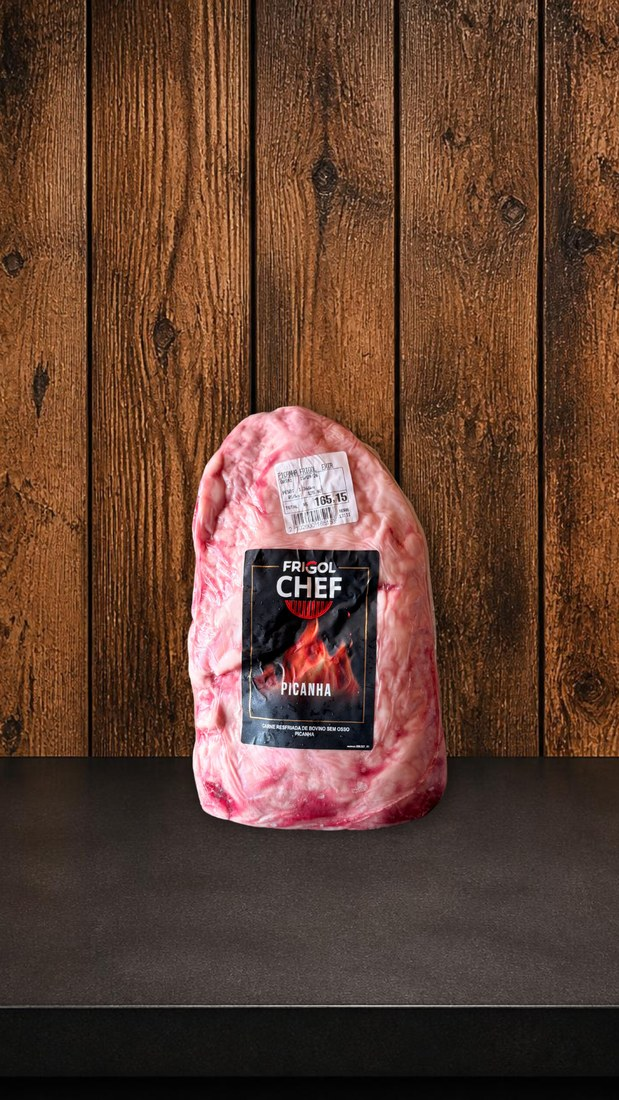
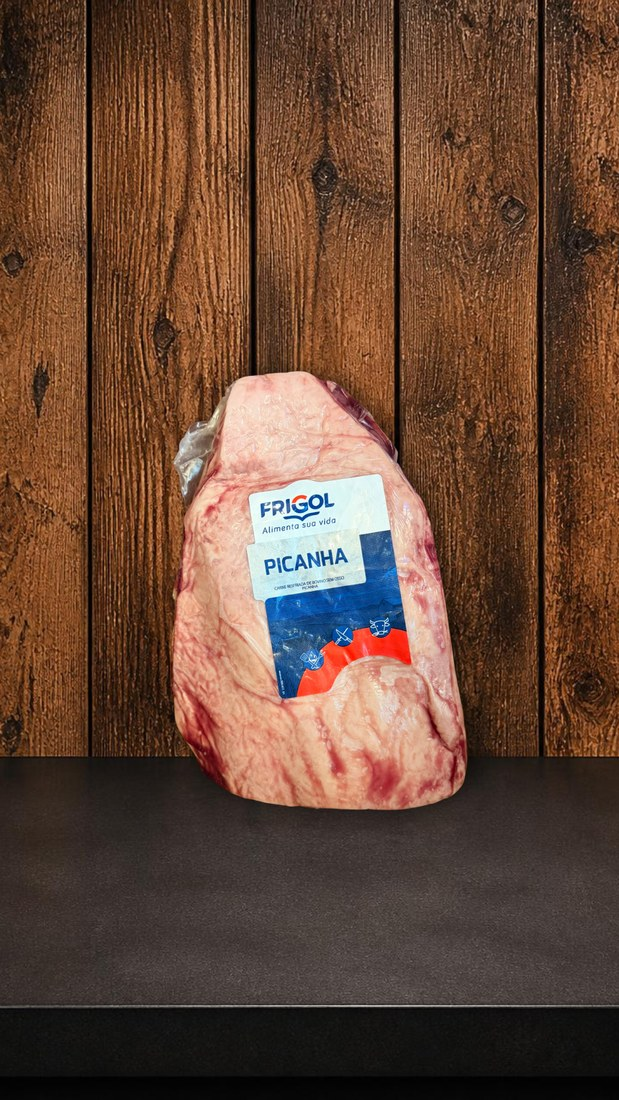
atualização de produtos

Changed region(s): [[0.2763, 0.3091, 0.7674, 0.7727]]

diff --git a/index.html b/index.html
@@ -341,14 +341,37 @@
         </div>
         <div class="cards-grid" data-category="picanhas">
 
-          <div class="product-card" data-key="picanhas:frigol">
+          <div class="product-card" data-key="picanhas:selecao-contato">
             <div class="product-media">
-              <img class="product-photo" src="images/products/picanhas/frigol.jpg"
-               alt="Frigol" loading="lazy">
+              <img class="product-photo" src="images/products/picanhas/selecao-contato.jpg"
+               alt="Seleção Contato" loading="lazy">
                <span class="product-tag">Promoção</span>
             </div>
             <div class="product-body">
-              <h4 class="product-name">Frigol</h4>
+              <h4 class="product-name">Seleção Contato</h4>
+              <p class="product-meta">Nacional · Resfriada</p>
+              <div class="product-footer">
+                <span class="product-price"><small>R$</small>99,90<em>/kg</em></span>
+                <button type="button" class="product-cta add-cart-btn" aria-label="Adicionar ao carrinho">
+                  <svg viewBox="0 0 24 24" width="18" height="18" fill="none" stroke="currentColor" stroke-width="2"
+                    stroke-linecap="round" stroke-linejoin="round" aria-hidden="true">
+                    <circle cx="9" cy="20" r="1.4" fill="currentColor" stroke="none" />
+                    <circle cx="18" cy="20" r="1.4" fill="currentColor" stroke="none" />
+                    <path d="M2.5 3h2.4l2.4 12.2a2 2 0 0 0 2 1.6h8.4a2 2 0 0 0 2-1.6L21 8H6" />
+                  </svg>
+                </button>
+              </div>
+            </div>
+          </div>
+
+          <div class="product-card" data-key="picanhas:frigol-chef">
+            <div class="product-media">
+              <img class="product-photo" src="images/products/picanhas/frigol-chef.jpg"
+               alt="Frigol Chef" loading="lazy">
+               <span class="product-tag">Promoção</span>
+            </div>
+            <div class="product-body">
+              <h4 class="product-name">Frigol Chef</h4>
               <p class="product-meta">Nacional · Resfriada</p>
               <div class="product-footer">
                 <span class="product-price"><small>R$</small>89,90<em>/kg</em></span>
@@ -445,6 +468,29 @@
               <p class="product-meta">Nacional · Resfriada</p>
               <div class="product-footer">
                 <span class="product-price"><small>R$</small>144,90<em>/kg</em></span>
+                <button type="button" class="product-cta add-cart-btn" aria-label="Adicionar ao carrinho">
+                  <svg viewBox="0 0 24 24" width="18" height="18" fill="none" stroke="currentColor" stroke-width="2"
+                    stroke-linecap="round" stroke-linejoin="round" aria-hidden="true">
+                    <circle cx="9" cy="20" r="1.4" fill="currentColor" stroke="none" />
+                    <circle cx="18" cy="20" r="1.4" fill="currentColor" stroke="none" />
+                    <path d="M2.5 3h2.4l2.4 12.2a2 2 0 0 0 2 1.6h8.4a2 2 0 0 0 2-1.6L21 8H6" />
+                  </svg>
+                </button>
+              </div>
+            </div>
+          </div>
+
+          <div class="product-card" data-key="picanhas:frigol">
+            <div class="product-media">
+              <img class="product-photo" src="images/products/picanhas/frigol.jpg"
+               alt="Frigol" loading="lazy">
+               <span class="product-tag">Promoção</span>
+            </div>
+            <div class="product-body">
+              <h4 class="product-name">Frigol</h4>
+              <p class="product-meta">Nacional · Resfriada</p>
+              <div class="product-footer">
+                <span class="product-price"><small>R$</small>89,90<em>/kg</em></span>
                 <button type="button" class="product-cta add-cart-btn" aria-label="Adicionar ao carrinho">
                   <svg viewBox="0 0 24 24" width="18" height="18" fill="none" stroke="currentColor" stroke-width="2"
                     stroke-linecap="round" stroke-linejoin="round" aria-hidden="true">
@@ -687,9 +733,9 @@
             </div>
           </div>
 
-          <div class="product-card" data-key="picanhas:selecao-contato">
+          <div class="product-card" data-key="picanhas:selecao-contato-bdj">
             <div class="product-media">
-              <img class="product-photo" src="images/products/picanhas/selecao-contato.jpg"
+              <img class="product-photo" src="images/products/picanhas/selecao-contato-bdj.jpg"
                alt="Seleção Contato 500g" loading="lazy">
                <span class="product-tag">Promoção</span>
             </div>
@@ -1029,9 +1075,31 @@
             </div>
           </div>
 
-          <div class="product-card" data-key="bovinos:chorizo-steak-bdj">
+          <div class="product-card" data-key="bovinos:chorizo-steak-1kg">
             <div class="product-media">
-              <img class="product-photo" src="images/products/bovinos/chorizo-steak-bdj.jpg"
+              <img class="product-photo" src="images/products/bovinos/chorizo-steak-1kg.jpg"
+               alt="Chorizo Steak bdj 1kg" loading="lazy">
+               <span class="product-tag">Promoção</span>
+            </div>
+            <div class="product-body">
+              <h4 class="product-name">Chorizo Steak - BDJ 1kg</h4>
+              <div class="product-footer">
+                <span class="product-price"><small>R$</small>79,90</span>
+                <button type="button" class="product-cta add-cart-btn" aria-label="Adicionar ao carrinho">
+                  <svg viewBox="0 0 24 24" width="18" height="18" fill="none" stroke="currentColor" stroke-width="2"
+                    stroke-linecap="round" stroke-linejoin="round" aria-hidden="true">
+                    <circle cx="9" cy="20" r="1.4" fill="currentColor" stroke="none" />
+                    <circle cx="18" cy="20" r="1.4" fill="currentColor" stroke="none" />
+                    <path d="M2.5 3h2.4l2.4 12.2a2 2 0 0 0 2 1.6h8.4a2 2 0 0 0 2-1.6L21 8H6" />
+                  </svg>
+                </button>
+              </div>
+            </div>
+          </div>
+ 
+          <div class="product-card" data-key="bovinos:chorizo-steak-500g">
+            <div class="product-media">
+              <img class="product-photo" src="images/products/bovinos/chorizo-steak-500g.jpg"
                alt="Chorizo Steak bdj 500g" loading="lazy">
                <span class="product-tag">Promoção</span>
             </div>
@@ -2234,7 +2302,7 @@
             <div class="kit-card-media"><img data-kit-slug="kit-contatinhos"
               alt="Kit Contatinhos" loading="lazy"><span
                 class="product-flame" aria-hidden="true">🔥</span></div>
-            <span class="kit-people">5 pessoas</span>
+            <span class="kit-people">4 pessoas</span>
             <h4>KIT CONTATINHOS</h4>
             <span class="kit-price"><small>R$</small>149,90</span>
             <ul>

diff --git a/js/products-data.js b/js/products-data.js
@@ -19,22 +19,24 @@
 const PRODUCTS = {
 
   picanhas: [
-    { slug: "frigol",             name: "PICANHA FRIGOL",                       origin: "Nacional",   storage: "Resfriada", price: "89,90",  unit: "kg",   soldOut: true },
-    { slug: "pul",                name: "PICANHA PUL",                          origin: "Nacional",   storage: "Resfriada", price: "112,90", oldPrice: "122,90", unit: "kg", tag: "Promoção" },
+    { slug: "selecao-contato",    name: "PICANHA SELEÇÃO CONTATO",              origin: "Nacional",   storage: "Resfriada", price: "99,90",  unit: "kg" },
+    { slug: "frigol-chef",        name: "PICANHA FRIGOL CHEF",                  origin: "Nacional",   storage: "Resfriada", price: "89,90",  unit: "kg",   soldOut: true },
+    { slug: "pul",                name: "PICANHA PUL",                          origin: "Nacional",   storage: "Resfriada", price: "112,90", unit: "kg",   soldOut: true },
     { slug: "chef",               name: "PICANHA CHEF",                         origin: "Nacional",   storage: "Resfriada", price: "115,90", unit: "kg" },
     { slug: "estancia-92",        name: "PICANHA ESTÂNCIA 92",                  origin: "Nacional",   storage: "Resfriada", price: "144,90", unit: "kg" },
     { slug: "bassi",              name: "PICANHA BASSI",                        origin: "Nacional",   storage: "Resfriada", price: "144,90", unit: "kg",   soldOut: true },
+    { slug: "frigol",             name: "PICANHA FRIGOL",                       origin: "Nacional",   storage: "Resfriada", price: "109,90", unit: "kg" },
     { slug: "brasa",              name: "PICANHA BRASA",                        origin: "Nacional",   storage: "Resfriada", price: "119,90", unit: "kg" },
     { slug: "dimeza",             name: "PICANHA DIMEZA",                       origin: "Nacional",   storage: "Resfriada", price: "117,90", unit: "kg",   soldOut: true },
     { slug: "fire",               name: "PICANHA FIRE",                         origin: "Nacional",   storage: "Resfriada", price: "122,90", unit: "kg" },
     { slug: "baby-novilho",       name: "PICANHA BABY NOVILHO",                 origin: "Nacional",   storage: "Resfriada", price: "119,90", unit: "kg",   soldOut: true },
     { slug: "diprima",            name: "PICANHA DIPRIMA",                      origin: "Nacional",   storage: "Resfriada", price: "119,90", unit: "kg",   soldOut: true },
-    { slug: "guarani",            name: "PICANHA GUARANI",                      origin: "Paraguaia",  storage: "Resfriada", price: "127,90", unit: "kg",   soldOut: true },
+    { slug: "guarani",            name: "PICANHA GUARANI",                      origin: "Paraguaia",  storage: "Resfriada", price: "124,90", unit: "kg",   soldOut: true },
     { slug: "cabana-las-lilas",   name: "PICANHA CABAÑA LAS LILAS",             origin: "Uruguaia",   storage: "Congelada", price: "132,90", unit: "kg",   soldOut: true },
     { slug: "tacuarembo",         name: "PICANHA TACUAREMBÓ",                   origin: "Uruguaia",   storage: "Congelada", price: "129,90", unit: "kg" },
     { slug: "los lazos",          name: "PICANHA LOS LAZOS",                    origin: "Uruguaia",   storage: "Congelada", price: "132,90", unit: "kg" },
     { slug: "cocarsa",            name: "PICANHA COCARSA",                      origin: "Argentina",  storage: "Congelada", price: "137,90", unit: "kg" },
-    { slug: "selecao-contato",    name: "PICANHA SELEÇÃO CONTATO - 500g",       origin: "Nacional",   storage: "Congelada", price: "69,90",  unit: "un" },
+    { slug: "selecao-contato-bdj",name: "PICANHA SELEÇÃO CONTATO - 500g",       origin: "Nacional",   storage: "Congelada", price: "69,90",  unit: "un" },
   ],
 
   bovinos: [
@@ -48,11 +50,12 @@ const PRODUCTS = {
     { slug: "capa-file-bassi",        name: "CAPA DE FILÉ BASSI",                       price: "45,90", unit: "kg",   soldOut: true },
     { slug: "stick-de-costela",       name: "STICK DE COSTELA",                         price: "59,90", unit: "kg" },
     { slug: "maca-de-peito-angus",    name: "BRISKET ANGUS - MAÇÃ DE PEITO",            price: "64,90", unit: "kg" },
-    { slug: "rib-steak-grill",        name: "RIB STEAK GRILL",                          price: "69,90", unit: "kg" },
+    { slug: "rib-steak-grill",        name: "RIB STEAK GRILL",                          price: "69,90", unit: "kg",   soldOut: true },
     { slug: "maminha-angus",          name: "MAMINHA ANGUS",                            price: "99,90", unit: "kg",   soldOut: true },
     { slug: "alcatra-com-queijo",     name: "ALCATRA C/ QUEIJO",                        price: "64,90", unit: "kg" },
     { slug: "baby-beef-angus",        name: "BABY BEEF ANGUS",                          price: "89,90", unit: "kg",   soldOut: true },
-    { slug: "chorizo-steak-bdj",      name: "CHORIZO STEAK CONTATO - 500g",             price: "39,90", unit: "un" },
+    { slug: "chorizo-steak-1kg",      name: "CHORIZO STEAK CONTATO - 1KG",              price: "79,90", unit: "un" },
+    { slug: "chorizo-steak-500g",     name: "CHORIZO STEAK CONTATO - 500g",             price: "39,90", unit: "un" },
     { slug: "costela-premium",        name: "COSTELA BOVINA C/ QUEIJO - 450g",          price: "74,90" },
     { slug: "linguica-costela-angus", name: "LINGUIÇA DE COSTELA ANGUS - 300g",         price: "16,90" },
     { slug: "linguica-costela-queijo",name: "LINGUIÇA DE COSTELA C/ QUEIJO - 420g",     price: "25,90",   soldOut: true },

diff --git a/js/script.js b/js/script.js
@@ -163,13 +163,29 @@ function organizeSoldOutProducts() {
   document.querySelectorAll(".cards-grid[data-category]").forEach((grid) => {
     const cards = Array.from(grid.querySelectorAll(".product-card"));
 
-    const available = cards.filter(card => !card.classList.contains("is-sold-out"));
+    const promo = cards.filter(card => card.classList.contains("is-promo"));
     const soldOut = cards.filter(card => card.classList.contains("is-sold-out"));
+    const available = cards.filter(card =>
+      !card.classList.contains("is-promo") && !card.classList.contains("is-sold-out")
+    );
 
-    [...available, ...soldOut].forEach(card => {
+    // só nas picanhas: do mais barato para o mais caro dentro de cada grupo
+    if (grid.dataset.category === "picanhas") {
+      const byPrice = (a, b) => cardPrice(a) - cardPrice(b);
+      promo.sort(byPrice);
+      available.sort(byPrice);
+      soldOut.sort(byPrice);
+    }
+
+    [...promo, ...available, ...soldOut].forEach(card => {
       grid.appendChild(card);
     });
   });
+
+  function cardPrice(card) {
+    const { price } = parsePriceEl(card.querySelector(".product-price"));
+    return price > 0 ? price : 1e9; // sem preço numérico vai para o fim do grupo
+  }
 }
 
 function customProductCardHTML(category, p) {
@@ -431,13 +447,25 @@ function setupProductQuickView() {
   }
 
   function stepProduct(direction) {
-    if (!currentCategory) return;
-    const list = Store.getCategoryProducts(currentCategory);
-    if (list.length < 2) return;
-    const index = list.findIndex((p) => p.slug === currentSlug);
-    const nextIndex = ((index === -1 ? 0 : index) + direction + list.length) % list.length;
-    goToProduct(currentCategory, list[nextIndex].slug);
-  }
+  if (!currentCategory) return;
+
+  // usa a ordem real dos cards na tela (promoção → normais → esgotados)
+  const cards = Array.from(
+    document.querySelectorAll(`.cards-grid[data-category="${currentCategory}"] .product-card`)
+  );
+  const slugs = cards
+    .map((card) => (card.dataset.key || "").split(":")[1])
+    .filter(Boolean);
+
+  const list = slugs.length
+    ? slugs
+    : Store.getCategoryProducts(currentCategory).map((p) => p.slug);
+
+  if (list.length < 2) return;
+  const index = list.indexOf(currentSlug);
+  const nextIndex = ((index === -1 ? 0 : index) + direction + list.length) % list.length;
+  goToProduct(currentCategory, list[nextIndex]);
+}
 
     prevProductBtn?.addEventListener("click", () => stepProduct(-1));
   nextProductBtn?.addEventListener("click", () => stepProduct(1));
@@ -1179,6 +1207,30 @@ function pulseCartBadge() {
   badge.classList.add("pulse");
 }
 
+function updateProductBadges(cart) {
+  document.querySelectorAll(".product-card[data-key]").forEach((card) => {
+    const key = card.dataset.key;
+    const qty = cart
+      .filter((i) => i.key === key || i.key.startsWith(key + ":"))
+      .reduce((sum, i) => sum + i.qty, 0);
+
+    const btn = card.querySelector(".add-cart-btn");
+    if (!btn) return;
+
+    let badge = btn.querySelector(".product-cta-badge");
+    if (qty > 0) {
+      if (!badge) {
+        badge = document.createElement("span");
+        badge.className = "product-cta-badge";
+        btn.appendChild(badge);
+      }
+      badge.textContent = qty;
+    } else if (badge) {
+      badge.remove();
+    }
+  });
+}
+
 function refreshCartUI() {
   const itemsWrap = document.getElementById("cartItems");
   const emptyMsg = document.getElementById("cartEmpty");
@@ -1188,6 +1240,7 @@ function refreshCartUI() {
   if (!itemsWrap) return;
 
   const cart = Store.getCart();
+  updateProductBadges(cart);
   badge.textContent = String(Store.cartCount());
   badge.style.display = Store.cartCount() > 0 ? "flex" : "none";
 

diff --git a/css/style.css b/css/style.css
@@ -895,6 +895,27 @@ footer{
   transition: border-color .2s, color .2s;
 }
 .cart-toggle:hover{ border-color: var(--ember); color: var(--ember-2); }
+
+.product-cta{ position: relative; }
+
+.product-cta-badge{
+  position:absolute;
+  top: -4px;
+  right: -4px;
+  min-width: 18px;
+  height: 18px;
+  padding: 0 4px;
+  border-radius: 999px;
+  background: linear-gradient(135deg, var(--ember), var(--braise));
+  color: #150b06;
+  font-family: var(--cond);
+  font-weight: 700;
+  font-size: .68rem;
+  display:flex;
+  align-items:center;
+  justify-content:center;
+}
+
 .cart-badge{
   position:absolute;
   top: -4px;
